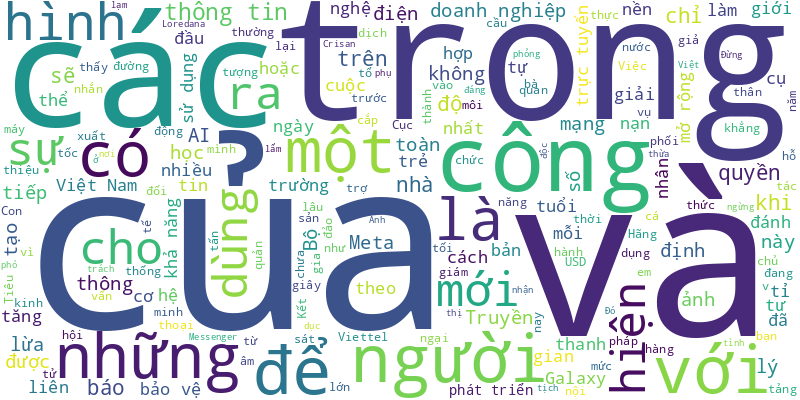
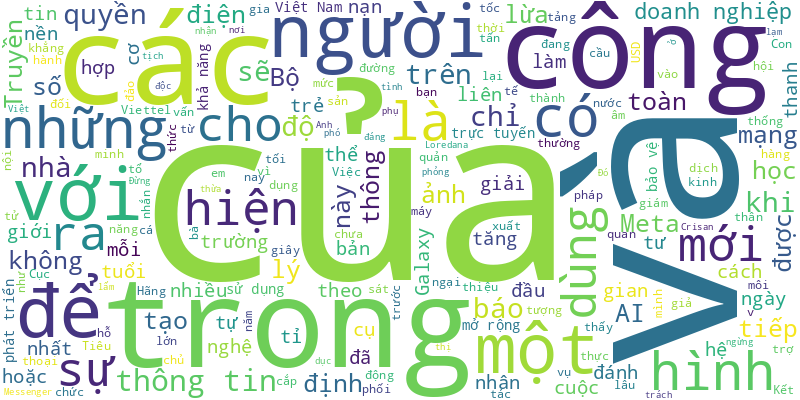
🍀 = 100%

diff --git a/README.md b/README.md
@@ -1,6 +1,16 @@
 # Tuoi Tre RSS 
 
 ## Giáo dục 
+- Thông tin PGS.TS Đào Nguyên Khôi - Công dân trẻ tiêu biểu TP.HCM, một nhà khoa học trẻ tài năng - qua đời ở tuổi 38 khiến hàng ngàn sinh viên, đồng nghiệp tiếc thương.
+- Trường THCS Trọng Điểm, TP Hạ Long, tỉnh Quảng Ninh dự kiến tự chủ 100% từ năm học tới và dự thu học phí 960.000 đồng/tháng.
+- Học đại học luật với mức học phí trên dưới 200 triệu đồng mỗi năm, sinh viên được học gì, ra trường làm gì?
+- Nhiều ý kiến trái chiều quanh chuyện trưởng khoa một trường đại học lớn bị tố làm giám đốc nhiều doanh nghiệp ngoài trường.
+- Bà Hồ Thị Tuyết Sương (bà nội của em N.T.A.T. - học sinh lớp 6) chia sẻ với Tuổi Trẻ Online về tình hình của T. sau khi gặp tai nạn giao thông nghiêm trọng.
+- Sở Giáo dục và Đào tạo TP Hải Phòng chỉ đạo không tổ chức dạy hè, dạy trước cho trẻ mầm non 5 tuổi vào lớp 1 dưới mọi hình thức trong thời gian từ 1-6 đến 15-8.
+- Năm học 2024-2025, mức học phí các ngành luật tại nhiều trường đại học ở TP.HCM dao động 15,9 - 181,5 triệu đồng/năm học.
+- Có quốc gia đã 2 lần tăng mức yêu cầu chứng minh tài chính với sinh viên chỉ trong chưa đầy 1 năm.
+- Cũng là chữ H đó thôi nhưng góc tiếp cận khác nhau sẽ mang lại những kết cục khác nhau.
+- Lễ tổng kết năm học 2023-2024 của Trường Quốc tế Song ngữ Victoria Nam Sài Gòn (thuộc Hệ thống Victoria School) vừa diễn ra ngày 26-5, với sự tham dự của hơn 1.000 giáo viên, phụ huynh và học sinh.
 - Những buổi lễ tốt nghiệp đánh dấu các cột mốc quan trọng trong đời mỗi người. Khi rời mỗi cấp học, đi kèm với niềm hân hoan vui sướng của người đi học là nỗi lo của phụ huynh ở nhà, vì cái gì cũng quy thành tiền.
 - Chuyện bi hài này xảy ra tại một trường tiểu học ở TP.HCM khi phụ huynh "cự nự" vì môn nghệ thuật (âm nhạc) của con anh bị xếp loại H (Hoàn thành).
 - Điểm trường cho học sinh và cây cầu treo dân sinh được tài trợ xây mới ở tỉnh Quảng Nam, nhưng phía Kon Tum lập biên bản buộc tạm dừng thi công do chồng lấn địa giới hành chính.
@@ -21,48 +31,38 @@
 - Nguyễn Bảo Phúc hàng tháng đi từ nhà ở TP Hải Dương lên Hà Nội, còn Nguyễn Bình hàng tuần từ Bình Dương lên TP.HCM để tìm ‘Tây’ bắt chuyện rèn tiếng Anh.
 - Từ các bài thơ trên trang mạng xã hội, Hồ Dương Mộng Tuyền trở thành tác giả của những trang sách nhẹ nhàng, gần gũi, hút độc giả trẻ.
 - Sinh viên Đại học Quốc gia TP.HCM cho biết tình trạng chen lấn khi lên xuống xe buýt diễn ra thường xuyên; tình trạng bị trộm cắp, quấy rối vẫn còn.
-- Một trưởng khoa của Trường đại học Khoa học xã hội và Nhân văn (Đại học Quốc gia TP.HCM) vừa nộp đơn xin nghỉ việc sau khi bị tố làm giám đốc nhiều doanh nghiệp ngoài trường.
-- Với ông Nguyễn Tấn Thành, tuổi tác không thể ngăn cản ông chinh phục sự học mà ông chỉ sợ không có nhiều thời gian để học. Và nay ông đi thi cao học.
-- Nhiều phụ huynh chia sẻ hình ảnh cùng con dự lễ tri ân trưởng thành do trường mầm non tổ chức đã nhận về ý kiến cho rằng bày vẽ, không phù hợp.
-- Hiệu trưởng Trường THPT Tháp Chàm được xác định đã chỉ đạo lạm thu rất nhiều khoản, có dấu hiệu trục lợi với tổng số tiền hơn 800 triệu đồng.
-- Sức hút của tấm bằng khen học sinh giỏi quả thực khiến bao người quay cuồng ép trẻ vào khuôn "học, học và học".
-- Việc khoe điểm, khen ngợi con trên mạng là nhu cầu có thật và không có gì quá đáng, nếu biết khoe con đúng cách.
-- "Hệ thống cảnh báo và dò tìm người mắc kẹt trong các vụ cháy chung cư" là đề tài của học sinh Lâm Bảo Trân và Lâm Hùng Vĩ (Trường THPT chuyên Nguyễn Thị Minh Khai, TP Sóc Trăng, tỉnh Sóc Trăng).
-- Trường đại học Khoa học tự nhiên (Đại học Quốc gia TP.HCM) vừa chính thức đi vào hoạt động phòng hỗ trợ chăm sóc sức khỏe tinh thần phục vụ miễn phí cho sinh viên.
-- Việc các trường đại học bắt tay hợp tác với các trường cấp THPT được đánh giá là các phát kiến hợp tác “đa lợi ích”.
-- Đại học Quốc gia TP.HCM sẽ đăng cai tổ chức trại hè sinh viên mạng lưới các đại học Đông Nam Á  năm 2024 (AUN - VUNHCM Summer Program 2024) vào tháng 7-2024.
 ![Edu](Edu.png)
 ## Thời Sự 
-- Ngày 26-6 tới đây Quốc hội sẽ biểu quyết thông qua Luật Trật tự, an toàn giao thông đường bộ trong đó quy định cảnh sát giao thông được truy đuổi người vi phạm.
-- Công an TP Đà Nẵng vừa có văn bản đề nghị UBND TP Đà Nẵng cung cấp tài liệu phục vụ điều tra việc quản lý, sử dụng bảy lô "đất vàng" tại Công ty cổ phần Lương thực Đà Nẵng.
-- Ngay từ sáng 28-5, mây đã phát triển mạnh gây mưa dông cho nhiều địa phương ở Đông Nam Bộ, mây tiếp tục được đẩy từ biển vào, dự báo hôm nay nhiều nơi mưa từ sớm.
-- Tin tức đáng chú ý: Sân bay Long Thành sắp cần 14.000 lao động cho giai đoạn 1; TP.HCM cứu sống bệnh nhi cúm A/H1 nguy kịch; Giá mua điện khí tối đa gần 2.600 đồng/kWh...
-- Hôm nay thời tiết Bắc Bộ đến Trung Bộ ban ngày nắng nóng, có nơi gay gắt. Nam Bộ ngày nắng, chiều tối mưa rào.
-- Khoảng 21h30, xảy ra vụ cháy xưởng gỗ đường Tôn Đức Thắng, phường 1, TP Cao Lãnh, tỉnh Đồng Tháp. Lực lượng chức năng đang tích cực chữa cháy.
-- Ban Bí thư chỉ thị có cơ chế, chính sách ưu đãi thực chất, đủ hấp dẫn để thu hút, khuyến khích các thành phần kinh tế trong nước và nước ngoài tham gia đầu tư, phát triển nhà ở xã hội.
-- Cầu Kênh 9 bắc qua kênh xáng Chưng Bầu (xã Thạnh Đông, huyện Tân Hiệp, tỉnh Kiên Giang) bị lún nhịp, địa phương đang khắc phục sự cố, tháo dỡ dầm cầu và phân luồng tàu, ghe đi lại.
-- Toàn bộ diện tích đất rừng phòng hộ đã bị công trình câu lạc bộ golf Đồi Cù Đà Lạt sử dụng trái phép không đủ cơ sở chuyển đổi mục đích sử dụng.
-- Tối 27-5, bầu trời TP.HCM sấm chớp liên tục kèm theo tiếng rền khiến nhiều người dân bất ngờ.
-- Dù đã được người dân và cử tri phản ánh từ lâu, nhưng đến nay các logo quảng cáo web cờ bạc vẫn xuất hiện tràn lan trên các tuyến phố Đà Nẵng.
-- Cao tốc Biên Hòa - Vũng Tàu đoạn qua phường Phước Tân (TP Biên Hòa, tỉnh Đồng Nai) mới bàn giao được 12% mặt bằng, nguy cơ khó về đích trước ngày 30-6 theo cam kết với Thủ tướng Chính phủ.
-- Sản lượng vải thiều tại huyện Tân Yên, tỉnh Bắc Giang đạt tiêu chuẩn VietGAP, GlobalGAP dự kiến khoảng 5.550 tấn, sẵn sàng xuất khẩu đi Nhật Bản, Mỹ, EU.
-- Một cảnh sát giao thông (ở Khánh Hòa) bị xe máy tông bị thương nặng, sau đó tử vong.
-- Cùng sự hỗ trợ nhân lực và thiết bị từ Tập đoàn Đèo Cả, các đơn vị liên quan đặt mục tiêu hoàn thành khắc phục sạt lở hầm Chí Thạnh trong ngày 30-5 để giải phóng ách tắc đường sắt Bắc - Nam qua tỉnh Phú Yên.
-- Trưa 27-5, tại Công an huyện Cần Giờ, Công an TP.HCM tổ chức trao khen thưởng các tập thể phá nhanh vụ giết người giấu xác trong vali rồi phi tang trên núi Nhỏ (TP Vũng Tàu).
-- Chiều 27-5, Bộ trưởng Đào Ngọc Dung đã giải trình về vấn đề rút tiền bảo hiểm xã hội một lần đang được sự quan tâm lớn của đại biểu, người lao động.
-- Nhiều mỏ đất ở xã Duy Trung, huyện Duy Xuyên, tỉnh Quảng Nam được cấp phép cho doanh nghiệp khai thác đất san lấp.
-- Đài khí tượng thủy văn khu vực Nam Bộ dự báo từ chiều tới tối nay một số khu vực có mưa dông, đề phòng lốc sét, gió giật.
-- Một nữ du khách cùng người thân trong gia đình bị nhóm 4-5 đối tượng dàn cảnh giật đồ khi đến viếng lễ Vía Bà Chúa Xứ 2024.
-- Trước việc cầu Đakrông hư hỏng nghiêm trọng, Quảng Trị vừa đề nghị xây dựng mới cầu bê tông cốt thép để đáp ứng nhu cầu nhập khẩu than từ Lào, ước tính lên đến 30 triệu tấn/năm.
-- Trước khi gục trên bục phát biểu kỷ niệm thành lập trường, thầy giáo nguyên hiệu trưởng ở tỉnh Nghệ An có những chia sẻ khiến nhiều thế hệ học trò rưng rưng nước mắt.
-- Dù thiếu hụt tàu bay, Vietjet vẫn tăng thêm 1,4 triệu vé phục vụ cao điểm hè. Hãng tập trung bay đêm từ TP.HCM, Hà Nội, Đà Nẵng, Nha Trang đến các tỉnh.
-- Về đề xuất xây đảo nổi trên sông Sài Gòn đoạn qua khu vực trung tâm TP.HCM, các chuyên gia cho rằng chúng ta không thể ngăn cản và phá vỡ quy luật tự nhiên của dòng sông.
-- Đường chuyên dụng cặp cửa khẩu Hữu Nghị - Hữu Nghị Quan nhằm đáp ứng nhu cầu giao thương ngày càng cao giữa Việt Nam và Trung Quốc.
-- UBND TP.HCM vừa có quyết định nghỉ hưu với ông Đặng Minh Đạt - chánh Thanh tra TP.HCM, và tiếp nhận, bổ nhiệm ông Quách Ngọc Tuấn giữ chức phó giám đốc Sở Kế hoạch và Đầu tư TP.
-- Đại biểu Quốc hội đề nghị sửa điều kiện hưởng trợ cấp hưu trí xã hội theo hướng hạ điều kiện về độ tuổi bằng hoặc thấp hơn độ tuổi trung bình Việt Nam hiện nay.
-- Chiếc xe đầu kéo đỗ nhiều giờ bên quốc lộ 1, người dân nghi ngờ bất thường nên trình báo cơ quan chức năng đến kiểm tra thì phát hiện tài xế đã tử vong trong cabin.
-- Sở Giao thông vận tải TP.HCM vừa gửi UBND TP.HCM kế hoạch vận chuyển hành khách trên tuyến metro số 1 (Bến Thành - Suối Tiên).
-- Lực lượng chức năng phát hiện một thi thể ở vùng rừng giáp biên giới Việt - Lào. Thi thể này nghi là người chồng từng là nghi phạm giết vợ 'hờ' của mình rồi bỏ trốn cách đây hơn 20 ngày trước.
+- Được báo tin nhận chiếc chân giả mới miễn phí, ông Hữu suốt đêm không ngủ, háo hức chờ đến sáng để nhận "món quà" quý. Còn bà Am thì mãi không thấy cuộc gọi đến nên cứ lo lắng đoàn bỏ quên mình hay sao.
+- Tình trạng các bảng hiệu có logo quảng cáo web cờ bạc trực tuyến tràn lan trên đường phố ở Đà Nẵng giảm hẳn sau khi các tổ trưởng tổ dân phố nhắn tin đến người dân.
+- Cô gái vào nhà hàng của một khách sạn 5 sao ở Hà Nội rồi gọi các món cao cấp như: bò Wagyu A5, tôm hùm nguyên con... Tuy nhiên, quản lý nhà hàng tố cô này sau đó không trả tiền.
+- Ba ngày cuối tháng 5 này, Nam Bộ và TP.HCM có mưa tăng, nhiều nơi mưa to, sang đầu tháng 6 mưa giảm nhưng vẫn duy trì và xuất hiện vào chiều tối.
+- Một số tin tức đáng chú ý: Đề xuất giảm 36 khoản phí, lệ phí; TP.HCM cấm xe một phần đường Lê Lợi; Trẻ em được bổ sung vitamin A từ ngày 1-6...
+- Hôm nay rãnh áp thấp kết hợp gió mùa tiếp tục gây thời tiết xấu cho Nam Bộ, Tây Nguyên. Bắc Bộ và Trung Bộ ngày nắng, chiều tối mưa.
+- Trong phiên làm việc ngày 28-5, kỳ họp thứ 12, HĐND tỉnh Tây Ninh đã miễn nhiệm, bầu bổ sung các chức danh thuộc thẩm quyền HĐND tỉnh.
+- Trường THCS Trọng Điểm, TP Hạ Long, tỉnh Quảng Ninh dự kiến tự chủ 100% từ năm học tới và dự thu học phí 960.000 đồng/tháng.
+- Người công nhân môi trường cảm thấy vui mừng vì nhận quà của công đoàn nhưng nói sẽ vui hơn nếu người dân bớt xả rác bừa bãi.
+- Quy định về bảo tồn nội đô tại 5 quận nội thành Hà Nội đang đặt ra những băn khoăn cho các đại biểu Quốc hội.
+- Sau giờ ăn trưa, hơn 70 công nhân nhà máy may mặc ở huyện Yên Thành, Nghệ An xuất hiện triệu chứng đau bụng, nôn mửa, nghi ngộ độc thực phẩm.
+- Kết quả khảo sát cho thấy chỉ 0,4% doanh nghiệp dịch vụ logistics của Việt Nam chuyển đổi số đạt đến cấp độ cao nhất (cấp độ 6) có khả năng thích ứng.
+- iệt Nam sẽ đi từ hub nhân lực bán rất toàn cầu đến công việc bán dẫn, sẽ là số một trong sự chuyển dịch chuỗi cung ứng bán dẫn toàn cầu.
+- Từ phản ánh của Tuổi Trẻ Online, quyền chủ tịch UBND tỉnh Đồng Nai chỉ đạo xử lý nghiêm vụ 112 hồ sơ ở dự án cao tốc Biên Hòa - Vũng Tàu có dấu hiệu chỉnh sửa.
+- Dự báo hai ngày cuối tháng 5, Bắc Bộ có mưa dông, cục bộ có mưa to. Còn Nam Bộ mưa rào và dông rải rác, cục bộ có mưa to vào chiều tối nhiều ngày tới.
+- Đến nay, TP.HCM chỉ phát triển được 30ha công viên công cộng. TP cần thực hiện thêm 55 dự án với 4.480 tỉ đồng.
+- Nhiều hộ dân lo lắng vì nhà máy cung cấp nước cho họ đang là tài sản đảm bảo của một khoản nợ mà ngân hàng đã có đơn yêu cầu thi hành án.
+- Theo UBND TP.HCM, việc điều chỉnh thời gian hoàn thành thi công metro số 1 không làm phát sinh chi phí, không ảnh hưởng đến các hiệp định vay...
+- Khi tổ công tác ra tín hiệu dừng phương tiện để kiểm tra nồng độ cồn, Hai không chấp hành, tiếp tục điều khiển xe đâm thẳng vào tổ công tác.
+- Dự kiến 10 ngày mới khắc phục xong vị trí hư hỏng dầm cầu Mang Thít trên tuyến quốc lộ 53, đoạn qua tỉnh Vĩnh Long, do bị sà lan va trúng.
+- Vụ cháy khiến một trẻ bị thương nặng, một trẻ chết tại bệnh viện. Cả hai nạn nhân đều là con của chủ quán cơm này.
+- Vụ sạt lở cát đỏ tại dự án Sentosa Mũi Né xảy ra lúc rạng sáng 21-5 chưa được khắc phục xong, thì đến rạng sáng 28-5 tiếp tục sạt lở.
+- Ngày 28-5, cơ quan chức năng huyện Krông Năng (Đắk Lắk) đã bàn giao thi thể hai anh em ngạt khí chết dưới giếng cho gia đình lo hậu sự.
+- UBND TP Thủ Đức tổ chức trao sổ hồng cho 17 hộ dân phường Long Bình (TP Thủ Đức) vướng vào dự án vành đai 3 nhưng chưa hoàn tất tái định cư từ năm 2017 đến nay.
+- Cơ quan chức năng đang tạm giữ hình sự Lưu Văn Mạnh sau khi ném đá vào hàng loạt xe ô tô lưu thông trên quốc lộ 80. Khi bị vây bắt thì Mạnh còn tấn công làm bị thương một công an.
+- Liên quan vụ phát hiện 112 hồ sơ dự án cao tốc Biên Hòa - Vũng Tàu có dấu hiệu chỉnh sửa để trục lợi, lãnh đạo UBND phường Phước Tân đã có thông tin thêm về vụ việc.
+- Sở Giao thông vận tải TP.HCM vừa có văn bản yêu cầu đẩy nhanh tiến độ triển khai danh mục đề xuất sử dụng tạm thời một phần lòng đường, vỉa hè ở TP Thủ Đức, quận 5, quận 8, quận Bình Tân...
+- Nội dung trên nằm trong quy định về phương pháp xác định chỉ tiêu dân số với nhà chung cư, nhà chung cư hỗn hợp và một số công trình có lưu trú khác tại Hà Nội vừa được UBND TP ban hành.
+- Chủ tịch UBND các cấp ở Hà Nội được áp dụng biện pháp yêu cầu cắt điện, nước đối với công trình vi phạm trong trường hợp thật sự cần thiết.
+- Ngày 28-5, các đại biểu HĐND TP Hải Phòng khóa XVI (nhiệm kỳ 2021-2026) đã thông qua đề án sắp xếp đơn vị hành chính cấp xã giai đoạn 2023-2025.
 ![New](News.png)
 ## Nhịp sống số 
 - Số người thừa nhận lạm dụng tình dục trực tuyến trẻ em ở Anh cho thấy mức độ đáng báo động của vấn nạn này.
